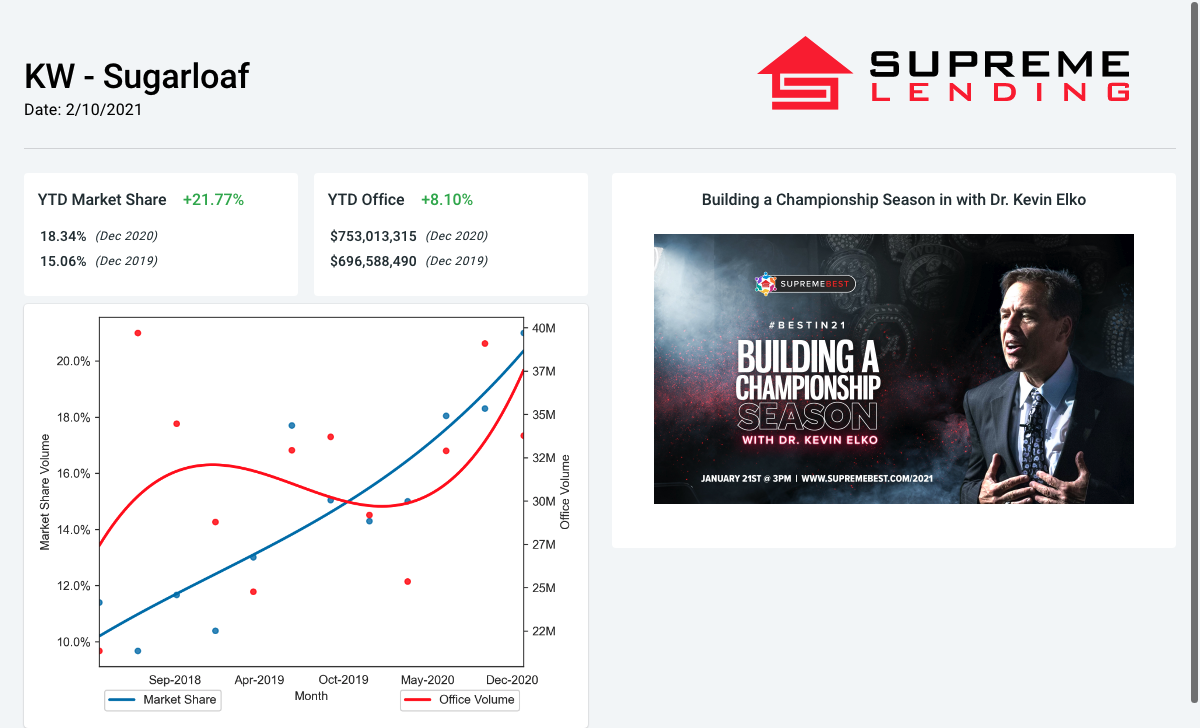
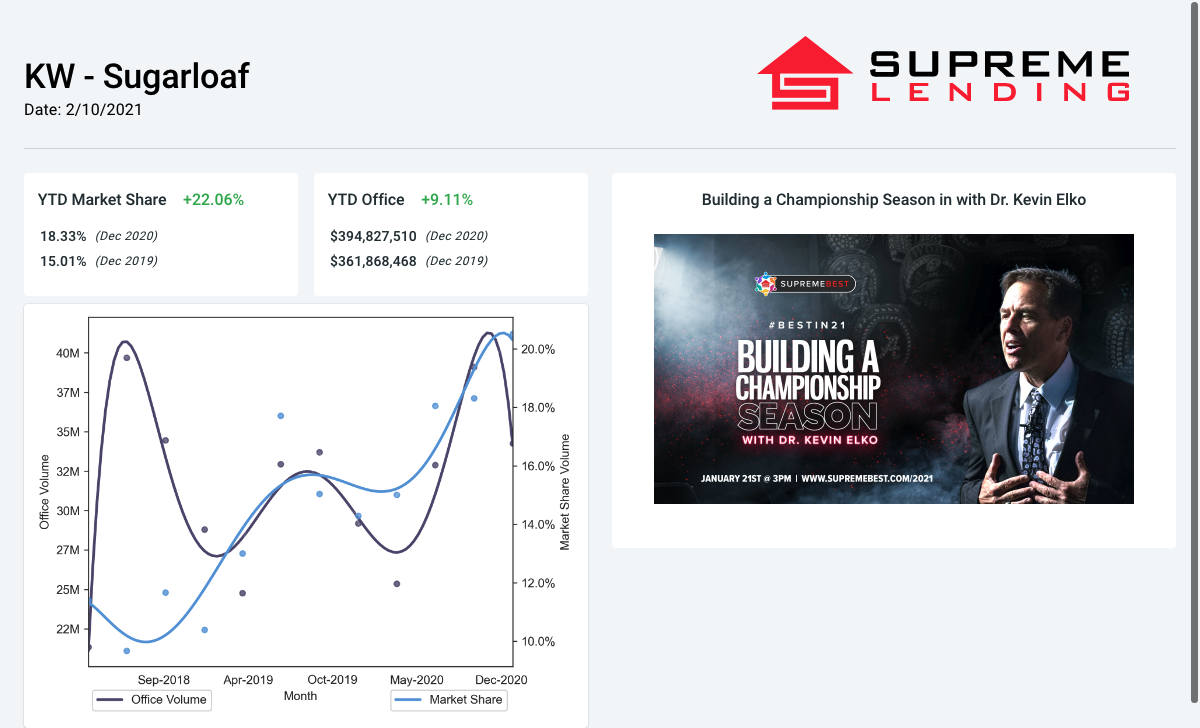
Auto Commit

diff --git a/automator/data_generator.py b/automator/data_generator.py
@@ -63,7 +63,7 @@ def search(dataframe, column, like_value):
 print('Fetching Database.')
 
 database = dataset.connect(pg_url)
-table_to_frame = lambda table: pd.DataFrame(list(database[table].find()))
+table_to_frame = lambda table: pd.DataFrame(list(database[table].find())).drop_duplicates()
 
 asa_accounts = table_to_frame('account')
 asa_contracts = table_to_frame('asa_contracts')
@@ -311,7 +311,7 @@ print('JSON File Successfully Saved.')
 def report_card_plot(df):
     try:
         null_prod_mask = df['Office Volume'] > 0
-        rf = df
+        rf = df.loc[null_prod_mask]
         df = (df.loc[null_prod_mask]
                 .set_index(pd.to_datetime(df.loc[null_prod_mask]['Date']))
                 .resample('Q', convention='end')
@@ -321,7 +321,9 @@ def report_card_plot(df):
         rf['Date Number'] = dates.datestr2num(rf['Date'].apply(lambda x: str(x)))
 
         df['Date Number'] = dates.datestr2num(df['Date'].apply(lambda x: str(x)))
+
         df['Market Share Volume'] = df['Market Share Volume'].apply(lambda x: pd.to_numeric(x)).fillna(0)
+        rf['Market Share Volume'] = rf['Market Share Volume'].apply(lambda x: pd.to_numeric(x)).fillna(0)
 
         @pyplot.FuncFormatter
         def fake_dates(x, pos):
@@ -336,27 +338,23 @@ def report_card_plot(df):
             return str(int(y / 1000000)) + 'M'
 
         fig, ax = pyplot.subplots()
-        sns.regplot(x="Date Number", y="Office Volume", color='#544D75', data=rf, ax=ax, order=3, ci=1, scatter_kws={"s": 0}, truncate=False)
-        sns.scatterplot(x="Date Number", y="Office Volume", color='#544D75', ax=ax, data=df, s=20)
-
+        sns.regplot(x="Date Number", y="Office Volume", color='#544D75', data=df, ax=ax, order=6, ci=0, scatter_kws={"s": 20})
 
         ax.xaxis.set_major_formatter(fake_dates)
         ax.yaxis.set_major_formatter(large_currency)
 
         ax2 = pyplot.twinx()
 
-        sns.regplot(x="Date Number", y="Market Share Volume", color='#659ADC', data=rf, ax=ax2, order=3, ci=1, scatter_kws={"s": 0}, truncate=False)
-        sns.scatterplot(x="Date Number", y="Market Share Volume", color='#659ADC', ax=ax2, data=df, s=25)
+        sns.regplot(x="Date Number", y="Market Share Volume", color='#659ADC', data=df, ax=ax2, order=6, ci=0, scatter_kws={"s": 20})
 
         ax2.yaxis.set_major_formatter(precentages)
 
         ax.set_xlabel('Month')
 
-        ax.legend(['Market Share'], loc='upper center',
-                  bbox_to_anchor=(.85, -0.05), ncol=5)
-        ax2.legend(['Office Volume'], loc='upper center',
-                   bbox_to_anchor=(.15, -0.05),fancybox=True,
-                   shadow=True, ncol=5)
+        ax.legend(['Office Volume'], loc='upper center',
+                  bbox_to_anchor=(.15, -0.05), ncol=5)
+        ax2.legend(['Market Share'], loc='upper center',
+                   bbox_to_anchor=(.85, -0.05), ncol=5)
     except:
         print('Failed.')
         print(df)
